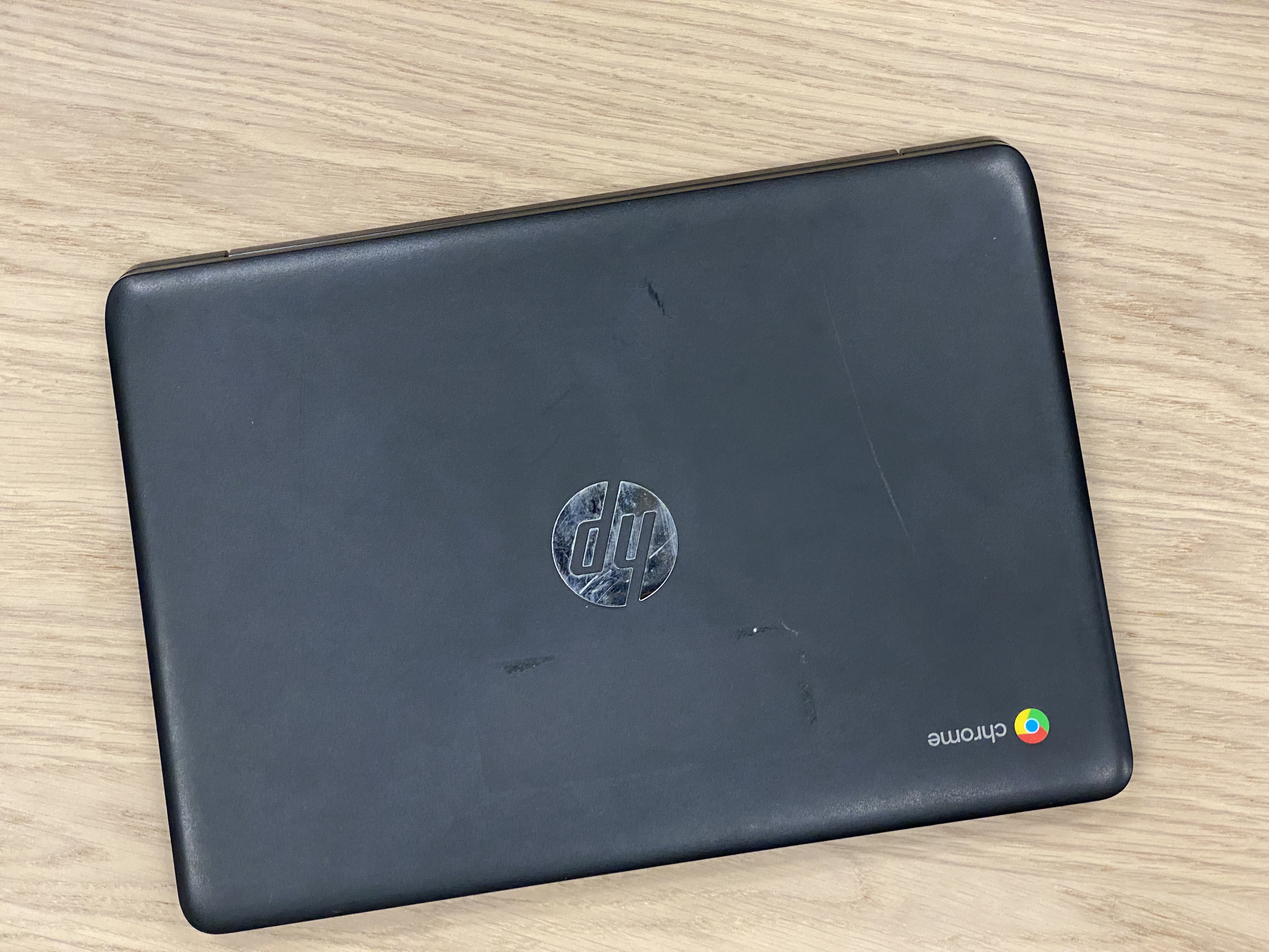
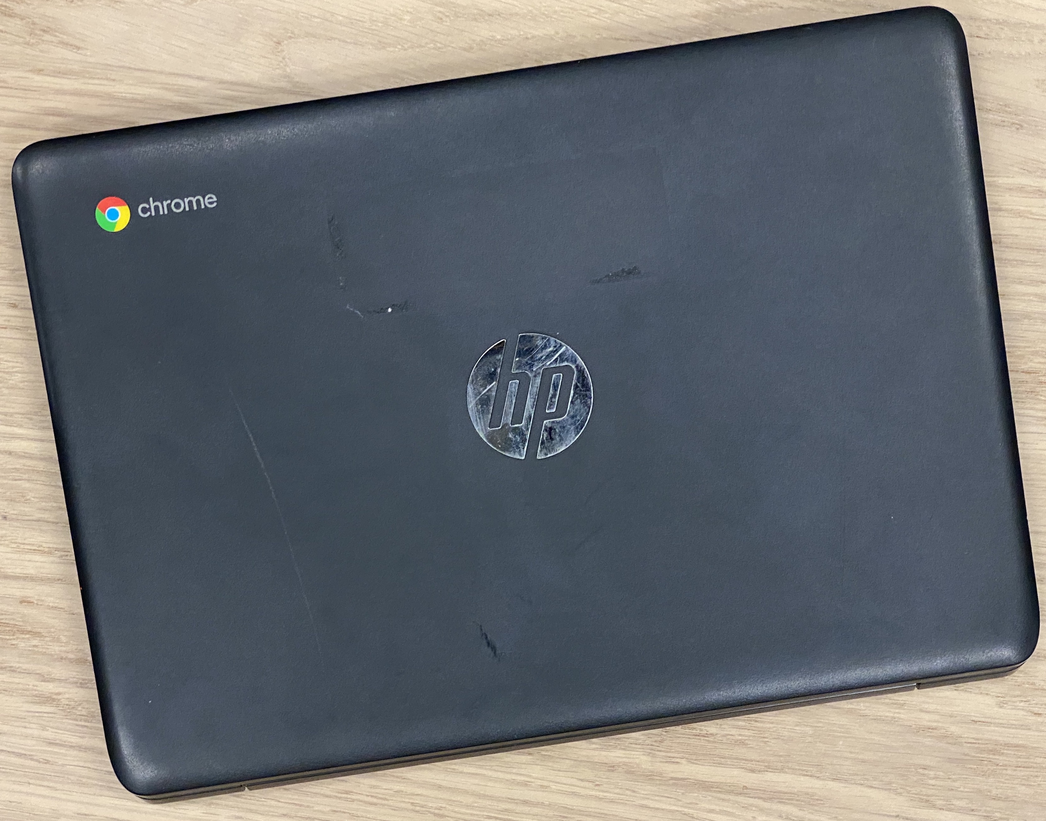
0.51

diff --git a/subpages/HPG5.html b/subpages/HPG5.html
@@ -12,16 +12,13 @@
     <link href="../main.css" rel="stylesheet">
     <link href="../guide.css" rel="stylesheet">
     <link href="images/icon.ico" rel="icon" type="image/x-icon">
-    <style>
-
-    </style>
   </head>
   <body>
     <div id="nav-placeholder">
     </div>
     <script>
     $(function(){
-    $("#nav-placeholder").load("nav.html");
+    $("#nav-placeholder").load("../nav.html");
     });
     </script>
     <main>
@@ -29,7 +26,8 @@
       <h1>HP G5</h1>
     </header>
     <aside>
-      
+      <img src="../images/G5.jpeg" alt="HP G5 Chromebook">
+      <img src="../images/G5Top2.jpeg" alt="HP G5 Chromebook from above">
     </aside>
     <content>
 
@@ -58,7 +56,7 @@
     </div>
     <script>
     $(function(){
-    $("#footer").load("footer.html");
+    $("#footer").load("../footer.html");
     });
     </script>
   </body>

diff --git a/guide.css b/guide.css
@@ -24,3 +24,10 @@ aside {
     float: left;
     background-color: lightgoldenrodyellow;
 }
+
+img {
+    max-width: 90%;
+    margin-top: 25px;
+    margin-left: 5%;
+    border-radius: 10px;
+}
